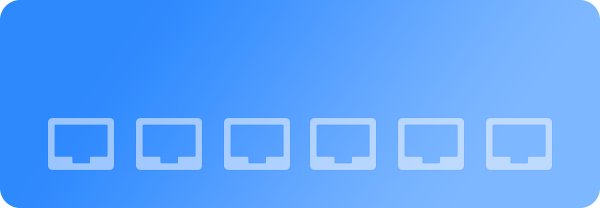
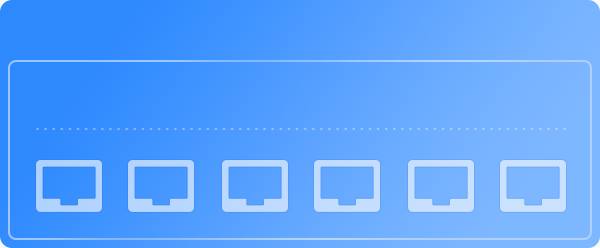
top map card modify

Changed region(s): [[0.0, 0.2308, 1.0, 1.0], [0.96, 0.0, 1.0, 0.0865], [0.0, 0.0, 0.03, 0.0577]]

diff --git a/src/views/node/modules/map-node-item.vue b/src/views/node/modules/map-node-item.vue
@@ -6,13 +6,25 @@
     @mouseenter="(e) => $emit('mouseenter', value, e)"
     @mouseleave="(e) => $emit('mouseleave', value, e)"
   >
+    <ol class="top-info">
+      <li>
+        {{!value.master ? "MASTER" : "SLAVE"}}
+      </li>
+      <li>
+        {{value.hostName }}
+      </li>
+      <li>
+        {{value.ip }}
+      </li>
+    </ol>
     <i :class="{'success' :value.nodeIsAlive, 'error': !value.nodeIsAlive}" />
     <ul class="">
       <li
         v-for="item in value.roles"
         :key="item"
+        :style="`color: ${getColor(item)}`"
       >
-        {{item}}
+        {{item.toLocaleUpperCase()}}
       </li>
     </ul>
   </div>
@@ -40,7 +52,23 @@ export default {
   },
 
   mounted() { },
-  methods: {}
+  methods: {
+    getColor(item) {
+      const error = "#f15e5e";
+      const succcess = "#3eec3d";
+      const { nodeIsAlive, dhcpIsAlive, dnsIsAlive } = this.value;
+      if (item === "controller" && nodeIsAlive) {
+        return succcess;
+      }
+      if (item === "dns" && dnsIsAlive) {
+        return succcess;
+      }
+      if (item === "dhcp" && dhcpIsAlive) {
+        return succcess;
+      }
+      return error;
+    }
+  }
 };
 </script>
 
@@ -48,16 +76,28 @@ export default {
 .node-map-server {
   position: relative;
   width: 300px;
-  height: 104px;
+  height: 124px;
   border-radius: 6px;
   background-size: cover;
+
+  .top-info {
+    display: flex;
+    justify-content: space-between;
+
+    li {
+      font-size: 14px;
+      line-height: 16px;
+      color: #fff;
+      padding: 8px 20px;
+    }
+  }
   i {
     position: absolute;
-    right: 24px;
-    top: 18px;
+    right: 20px;
+    top: 43px;
     display: block;
-    width: 24px;
-    height: 24px;
+    width: 10px;
+    height: 10px;
     border-radius: 50%;
     &.success {
       background: #3eec3d;
@@ -69,19 +109,20 @@ export default {
   ul {
     display: inline-flex;
     color: #fff;
-    font-size: 14px;
-    margin: 18px 24px;
+    margin: 6px 20px;
     li {
       position: relative;
+      font-size: 14px;
+      font-weight: bold;
 
       & + li {
         margin-left: 30px;
         &::before {
           position: absolute;
-          top: -3px;
-          left: -20px;
+          top: 4px;
+          left: -18px;
           content: ".";
-          font-size: 40px;
+          font-size: 22px;
           line-height: 0;
         }
       }

diff --git a/src/views/node/Line.vue b/src/views/node/Line.vue
@@ -87,7 +87,7 @@ export default {
 
           smooth: true,
           symbol: "none",
-          lineStyle: { color: primaryColor, width: 5 },
+          lineStyle: { color: primaryColor, width: 3 },
           itemStyle: {
             // borderWidth: 4,
             borderColor: primaryColor
@@ -126,7 +126,7 @@ export default {
             type: "line",
             symbol: "none",
             lineStyle: {
-              width: 5
+              width: 3
             },
             smooth: true
           };

diff --git a/config/index.js b/config/index.js
@@ -23,7 +23,7 @@ module.exports = {
 		// View the bundle analyzer report after build finishes:
 		// `npm run build --report`
 		// Set to `true` or `false` to always turn it on or off
-		bundleAnalyzerReport: true // process.env.npm_config_report ranck
+		bundleAnalyzerReport: false // process.env.npm_config_report ranck
 	},
 	dev: {
 		env: require('./dev.env'),
